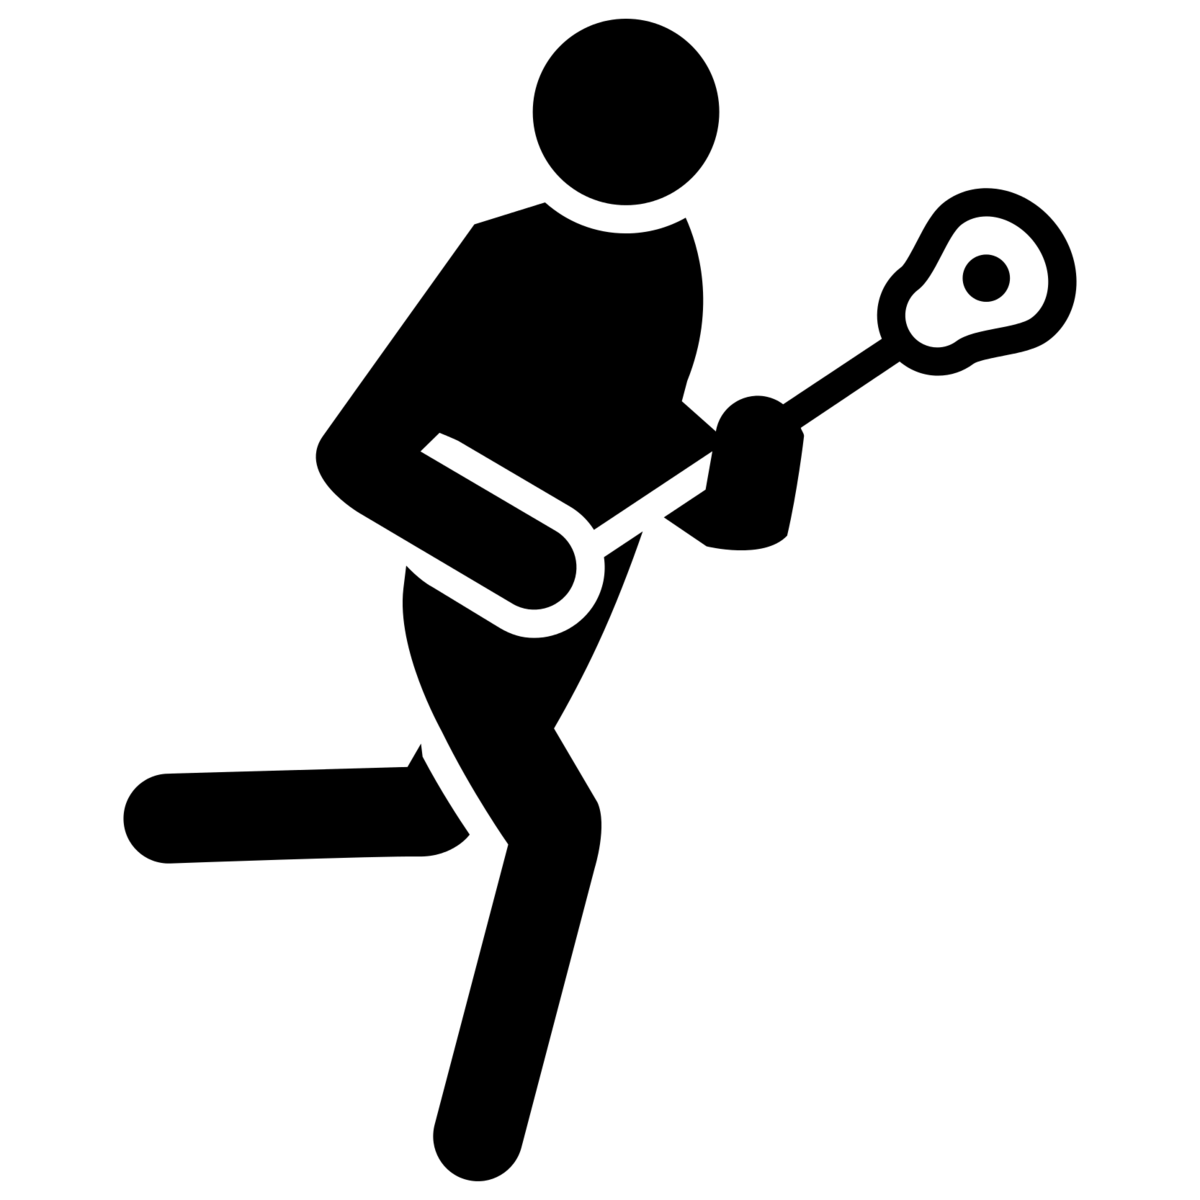
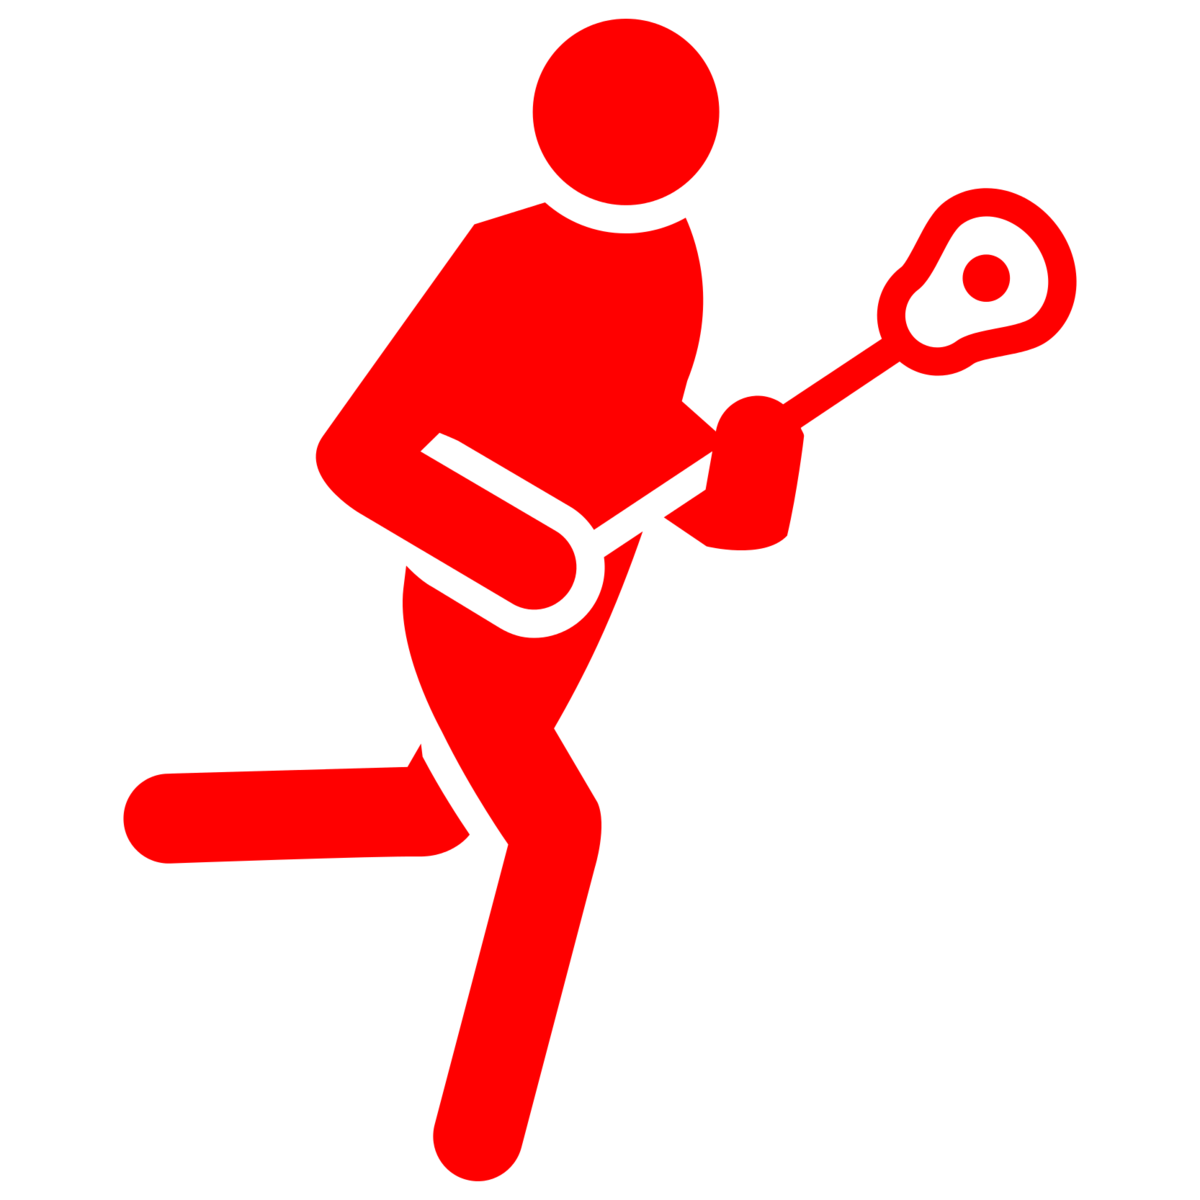
nav links now red

Changed region(s): [[0.0925, 0.0, 0.8942, 0.9867]]

diff --git a/app/assets/stylesheets/style.css b/app/assets/stylesheets/style.css
@@ -42,6 +42,10 @@ p {
   color: red;
 }
 
+.red-text i {
+  color: red;
+}
+
 .bold {
   font-weight: bold;
 }
